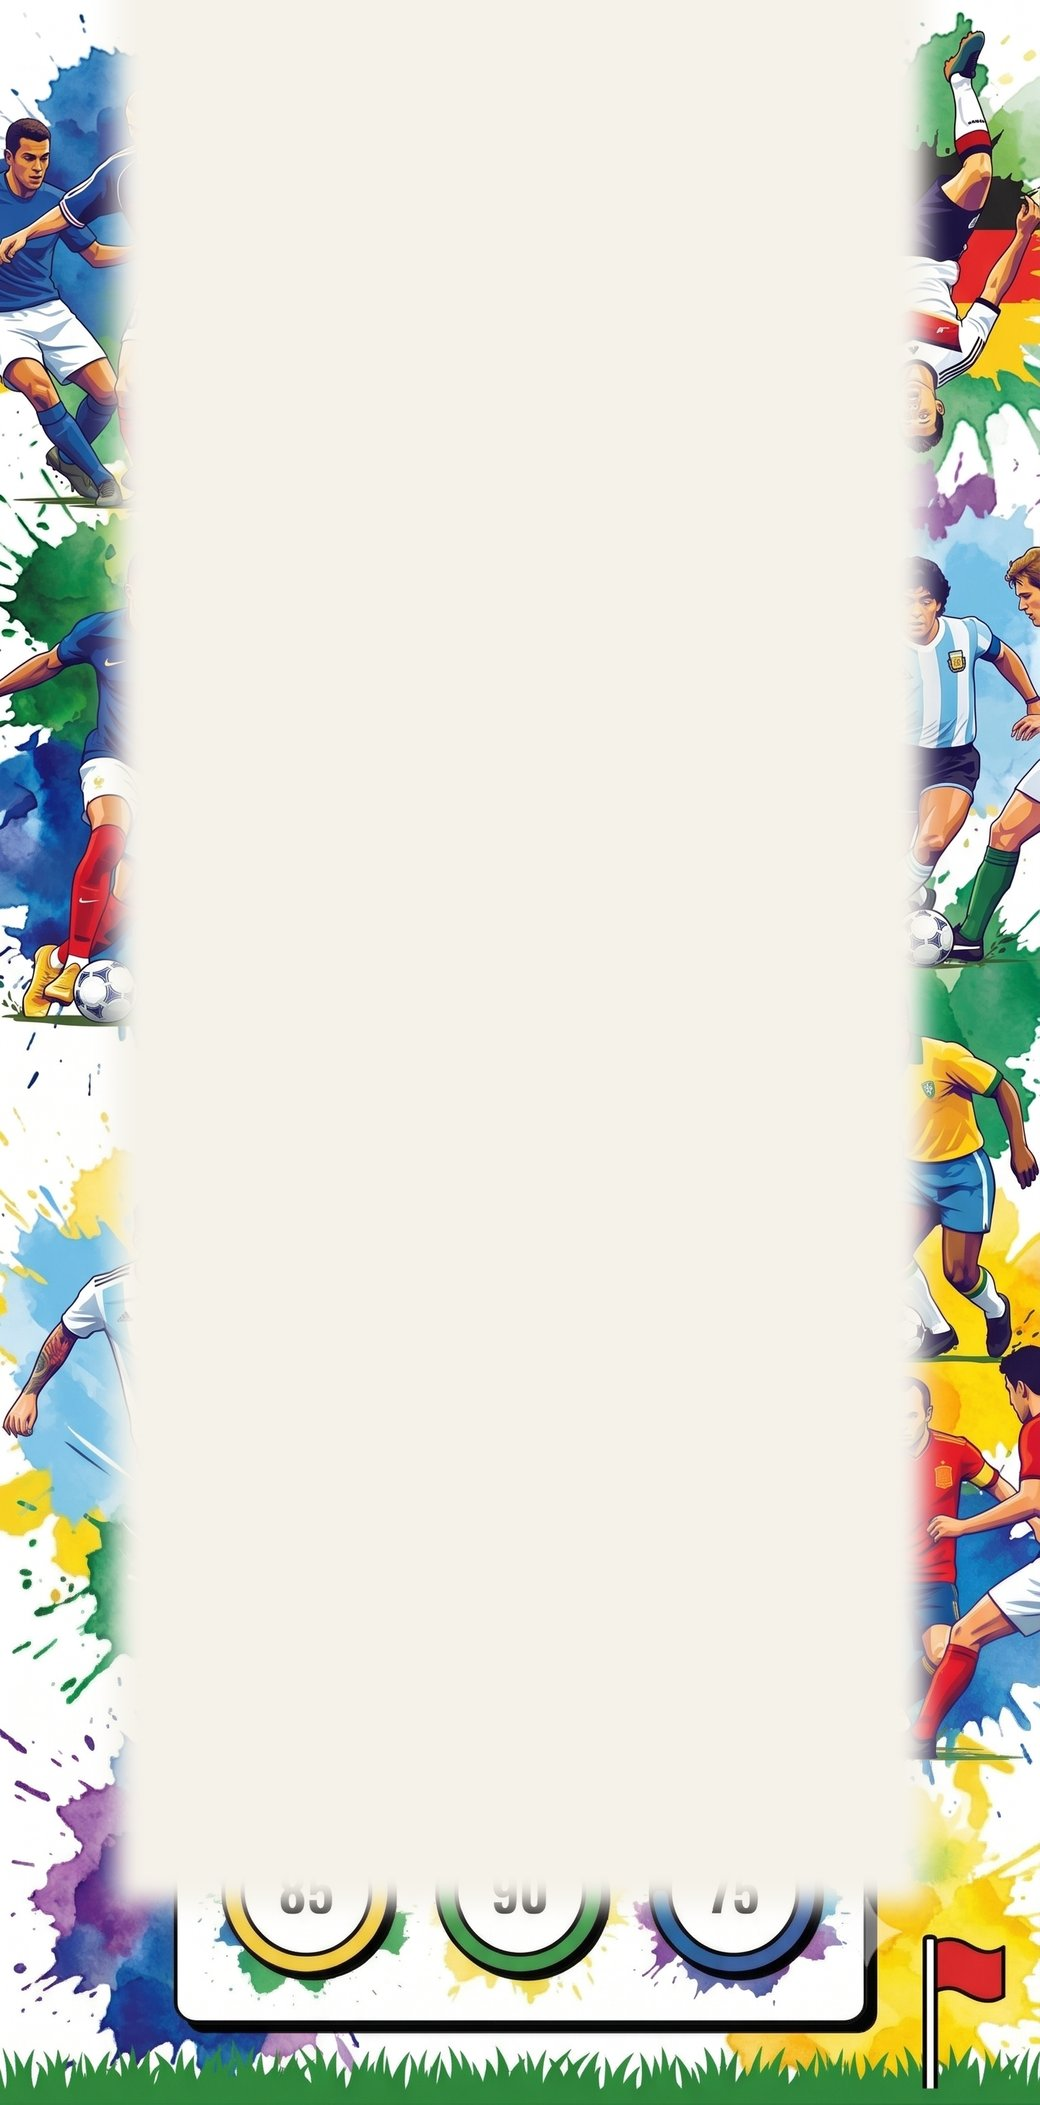
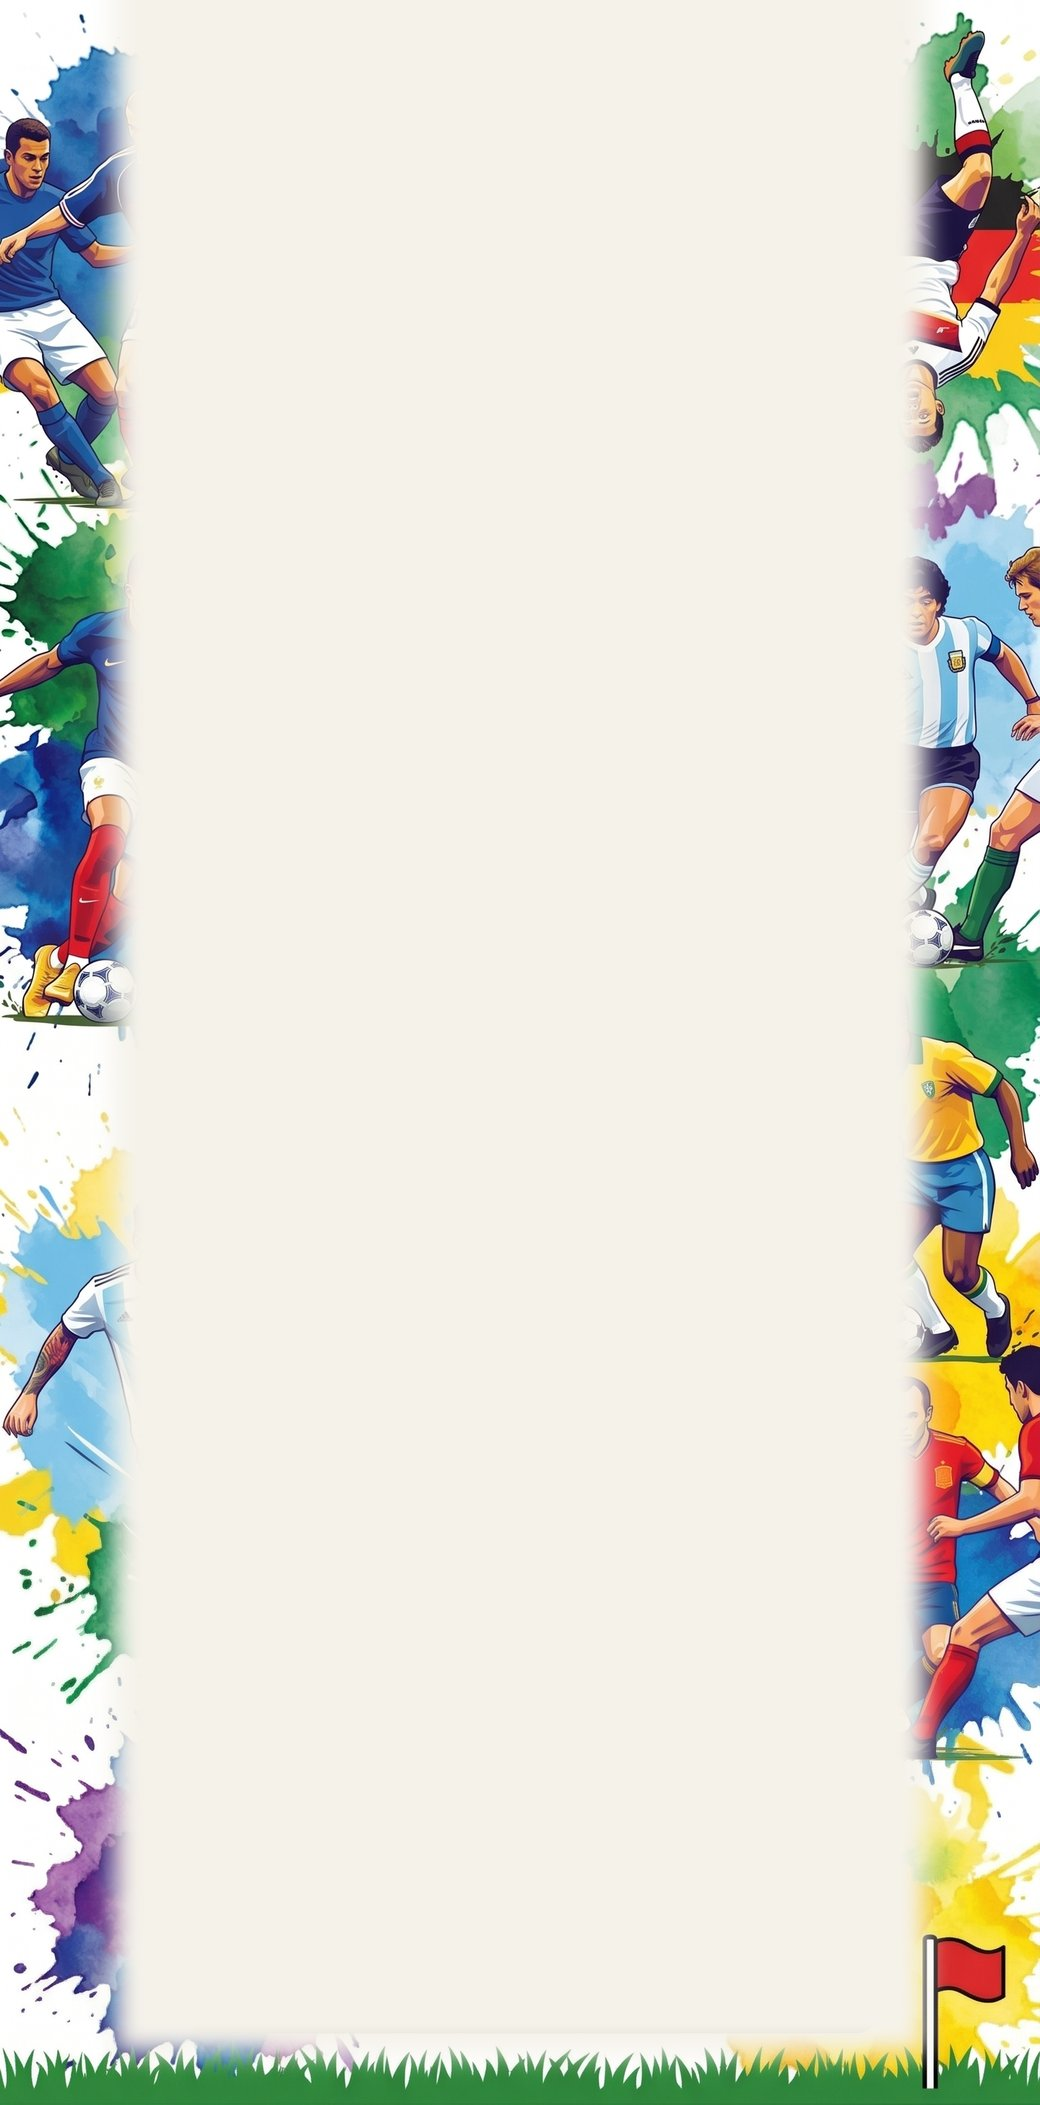
Draft: aba ativa legivel, respiro sob Bloqueio/Troca, remove stats desenhados do fundo
Tres correcoes apontadas pelo Pedro no celular: (1) a aba ativa do draft usava fundo azul-escuro global e o nome ficava preto no preto no tema claro - agora a aba ativa e preta com texto branco; (2) .td-cards ganhou margin-bottom de 10px pra separar Bloqueio/Troca da lista de jogadores; (3) o draft-bg.jpg foi regenerado com o centro creme estendido ate 97.5% da altura, apagando os circulos TEAM STATS 85/90/75 desenhados no mockup que apareciam atras do campo (grama e laterais preservadas).

Changed region(s): [[0.0923, 0.8955, 0.9231, 0.9881]]

diff --git a/index.html b/index.html
@@ -168,6 +168,25 @@
       color: var(--ink);
     }
 
+    /* Abas: chips claros com borda; a ativa vira preta com texto branco
+       (o fundo azul-escuro global sumiria com o texto escuro deste tema). */
+    #tourneyDraftView .td-tab {
+      border-width: 2px;
+    }
+
+    #tourneyDraftView .td-tab.is-active {
+      background: oklch(0.14 0 0);
+      border-color: oklch(0.14 0 0);
+    }
+
+    #tourneyDraftView .td-tab.is-active .td-tab-name {
+      color: oklch(0.99 0 0);
+    }
+
+    #tourneyDraftView .td-tab.is-active .td-tab-meta {
+      color: oklch(0.84 0 0);
+    }
+
     #tourneyDraftView .panel {
       border-width: 2px;
       box-shadow: 3px 3px 0 oklch(0.14 0 0);
@@ -1116,6 +1135,7 @@
       display: flex;
       gap: 8px;
       margin-top: 10px;
+      margin-bottom: 10px;
     }
 
     .td-card {
